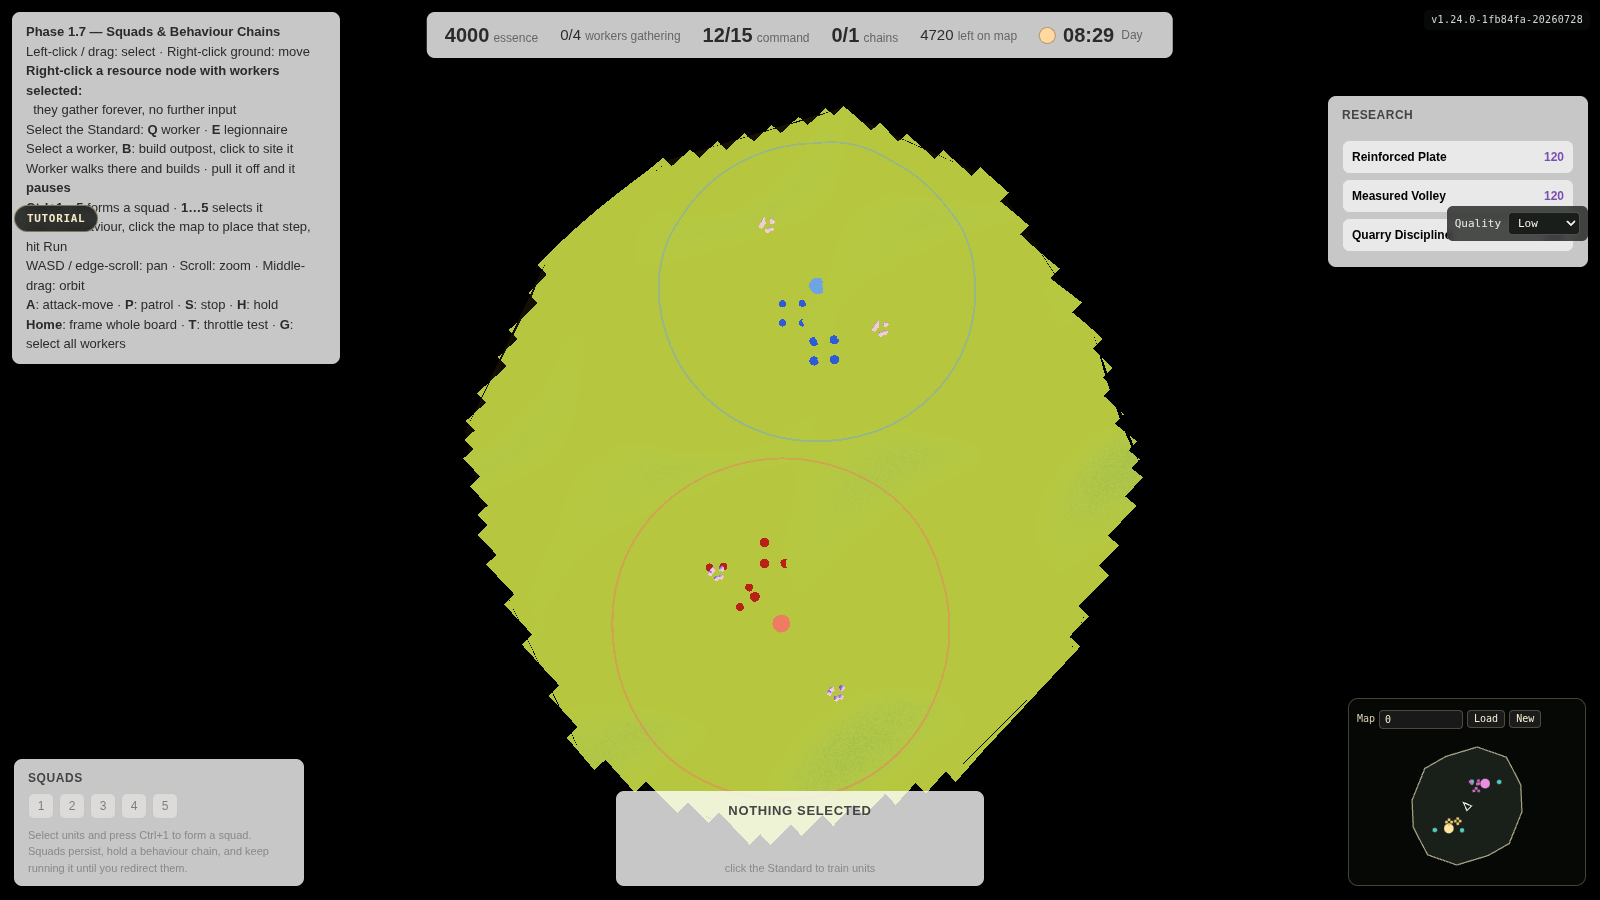
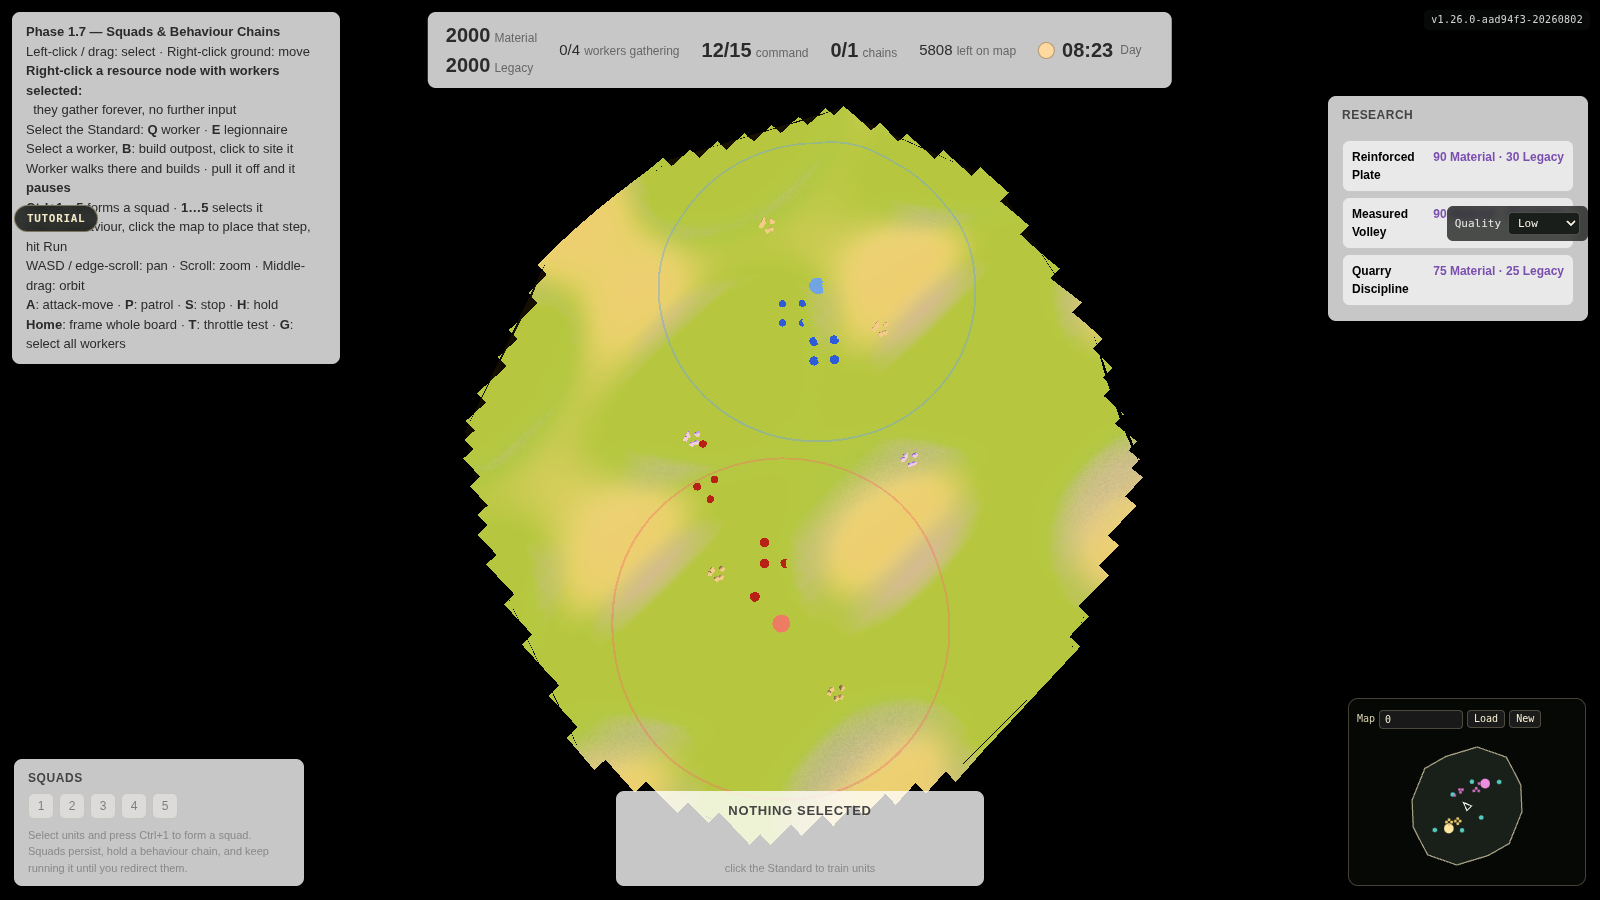
feat(render): ground that reads as ground (v1.27.0)
First item of the visual overhaul, and the one costing the most: the
terrain rendered as a single flat lime sheet, so the elevation that
combat already rewards with a damage bonus was invisible. D-035 makes
that a legibility failure rather than a cosmetic one.

Three hue paths now blend by world height, surface slope and
meadow-scale noise: valley grass, a new sun-dried grassHigh, and rock on
steep faces. Drying starts below the high-ground combat threshold, so a
contested rise is already changing colour as you climb it rather than
switching at the top. The noise term matters as much as the height one —
without it the blend reads as a contour map instead of terrain.

Compiled behind a TERRAIN_BLEND define rather than branched per
fragment, so units, buildings, scenery and nodes compile the exact
shader they compiled before and pay nothing for a feature only the
ground uses. That is D-006's budget talking.

Gallery re-shot against this build and the captions corrected: the old
text called the terrain "one flat green mass", which is no longer true,
and a screenshot page that describes a build it no longer matches is
worse than none. It now names what IS still wrong — ground *shape* is
soft, with no authored ramps, chokepoints or routes worth discovering,
because the generator makes smooth noise. That is D-033's work and the
real remaining blocker for arcade legibility.

diff --git a/src/render/painterly.ts b/src/render/painterly.ts
@@ -61,6 +61,16 @@ uniform float uCloudAmount, uCloudScale, uCloudSoft;
 uniform vec2  uCloudOffset;
 uniform float uOpacity;
 
+#ifdef TERRAIN_BLEND
+// A second and third hue path for ground that is high or steep. Guarded by a
+// define so every non-terrain material compiles the exact shader it always
+// did — units and buildings pay nothing for this.
+uniform vec3 uShadeHigh, uMidHigh, uLitHigh;
+uniform vec3 uShadeSteep, uMidSteep, uLitSteep;
+// x: height where drying starts · y: height where it completes · z: slope gain
+uniform vec3 uBlendParams;
+#endif
+
 varying vec3 vWPos;
 varying vec3 vWNormal;
 
@@ -111,7 +121,24 @@ void main() {
   float jit = (hash21(floor(vWPos.xz * 7.0)) - 0.5) * uJitter;
 
   float t = wrap * mix(0.34, 1.0, shadow);
-  vec3 col = ramp3(t, uShade, uMid, uLit, uSoft, jit);
+
+  vec3 pShade = uShade, pMid = uMid, pLit = uLit;
+#ifdef TERRAIN_BLEND
+  // Ground variation, all of it fragment maths (D-006):
+  //  - height dries the grass out, so elevation is readable as colour — the
+  //    combat high-ground bonus must be visible from the war table (D-035);
+  //  - large-scale noise wobbles that boundary into meadow patches, which is
+  //    what stops the field reading as one flat green sheet;
+  //  - slope pushes toward rock, accenting the flanks of every rise.
+  float meadow = vnoise(vWPos.xz * 0.045) * 0.65 + vnoise(vWPos.xz * 0.13 + 17.0) * 0.35;
+  float hgt = smoothstep(uBlendParams.x, uBlendParams.y, vWPos.y + (meadow - 0.5) * 0.9);
+  float steep = clamp((1.0 - N.y) * uBlendParams.z - 0.35, 0.0, 1.0);
+  pShade = mix(mix(pShade, uShadeHigh, hgt), uShadeSteep, steep);
+  pMid   = mix(mix(pMid,   uMidHigh,   hgt), uMidSteep,   steep);
+  pLit   = mix(mix(pLit,   uLitHigh,   hgt), uLitSteep,   steep);
+#endif
+
+  vec3 col = ramp3(t, pShade, pMid, pLit, uSoft, jit);
 
   float litAmt = smoothstep(0.34, 0.86, t);
   col *= mix(vec3(0.94), uSunColor * 1.28, litAmt * 0.62);
@@ -150,6 +177,22 @@ export interface PainterlyOptions {
   opacity?: number;
   transparent?: boolean;
   side?: THREE.Side;
+  /**
+   * Ground blending: a second hue path for high/dry ground and a third for
+   * steep faces, mixed by world height, slope and meadow noise. Terrain only —
+   * omitting it compiles the identical shader every other material uses.
+   */
+  terrain?: {
+    high: HuePath;
+    steep: HuePath;
+    /** World height where the grass starts drying out. */
+    heightLo: number;
+    /** ...and where it is fully dry. */
+    heightHi: number;
+    /** Gain on (1 − N.y). This map's slopes are gentle (N.y ≈ 0.93–1.0), so
+     *  legible rock accents need a large multiplier. */
+    slopeGain: number;
+  };
 }
 
 /**
@@ -182,6 +225,7 @@ export function createPainterlyMaterial(
     fog: true,
     transparent: opts.transparent ?? false,
     side: opts.side ?? THREE.FrontSide,
+    defines: opts.terrain ? { TERRAIN_BLEND: '' } : {},
     uniforms: THREE.UniformsUtils.merge([
       THREE.UniformsLib['lights'],
       THREE.UniformsLib['fog'],
@@ -202,6 +246,18 @@ export function createPainterlyMaterial(
         uCloudScale: { value: 0.012 },
         uCloudSoft: { value: 0.14 },
         uCloudOffset: { value: new THREE.Vector2() },
+        ...(opts.terrain ? {
+          uShadeHigh: { value: opts.terrain.high.shade.clone() },
+          uMidHigh: { value: opts.terrain.high.mid.clone() },
+          uLitHigh: { value: opts.terrain.high.lit.clone() },
+          uShadeSteep: { value: opts.terrain.steep.shade.clone() },
+          uMidSteep: { value: opts.terrain.steep.mid.clone() },
+          uLitSteep: { value: opts.terrain.steep.lit.clone() },
+          uBlendParams: {
+            value: new THREE.Vector3(
+              opts.terrain.heightLo, opts.terrain.heightHi, opts.terrain.slopeGain),
+          },
+        } : {}),
       },
     ]),
   });

diff --git a/tests/render/painterlyTerrain.test.ts b/tests/render/painterlyTerrain.test.ts
@@ -1,0 +1,35 @@
+import { describe, expect, it } from 'vitest';
+import { createPainterlyMaterial } from '../../src/render/painterly';
+import { PALETTE } from '../../src/render/palette';
+
+// The blend is guarded by a define so that units and buildings keep compiling
+// the exact shader they always did. These tests pin that guard.
+describe('painterly terrain blend (D-035 ground legibility)', () => {
+  it('a plain material compiles without the terrain define or uniforms', () => {
+    const mat = createPainterlyMaterial(PALETTE.grass);
+    expect(mat.defines).not.toHaveProperty('TERRAIN_BLEND');
+    expect(mat.uniforms).not.toHaveProperty('uShadeHigh');
+  });
+
+  it('a terrain material declares the define and all blend uniforms', () => {
+    const mat = createPainterlyMaterial(PALETTE.grass, {
+      terrain: {
+        high: PALETTE.grassHigh, steep: PALETTE.rock,
+        heightLo: 0.25, heightHi: 1.45, slopeGain: 22,
+      },
+    });
+    expect(mat.defines).toHaveProperty('TERRAIN_BLEND');
+    for (const u of ['uShadeHigh', 'uMidHigh', 'uLitHigh', 'uShadeSteep', 'uMidSteep', 'uLitSteep', 'uBlendParams']) {
+      expect(mat.uniforms).toHaveProperty(u);
+    }
+    const params = mat.uniforms['uBlendParams']!.value as { x: number; y: number; z: number };
+    expect(params.x).toBeLessThan(params.y);
+  });
+
+  it('the high path is a distinct hue family from the valley grass', () => {
+    // If someone later points both at the same path, the blend silently does
+    // nothing and elevation legibility is lost while every test still passes —
+    // except this one.
+    expect(PALETTE.grassHigh.mid.getHex()).not.toBe(PALETTE.grass.mid.getHex());
+  });
+});

diff --git a/src/render/palette.ts b/src/render/palette.ts
@@ -21,6 +21,13 @@ const c = (hex: number) => new THREE.Color(hex);
 /** Cool violet-green shade -> saturated mid -> warm sunlit tip. */
 export const PALETTE = {
   grass: { shade: c(0x3f5d4a), mid: c(0x5f9147), lit: c(0xa8c85c) },
+  /**
+   * Sun-dried grass for high ground. The point is legibility, not decoration:
+   * combat gives high ground a real damage bonus, so elevation has to be
+   * readable from colour at war-table distance (D-035). Warmer and paler than
+   * the valley grass, still inside the same painterly family.
+   */
+  grassHigh: { shade: c(0x625c33), mid: c(0x99a04f), lit: c(0xdcd48b) },
   rock: { shade: c(0x4d4f52), mid: c(0x83837c), lit: c(0xc3bda9) },
   bark: { shade: c(0x3d2e24), mid: c(0x6b4a2f), lit: c(0x9c7746) },
   leaf: { shade: c(0x2f5535), mid: c(0x4f8f3d), lit: c(0x9ccc5a) },

diff --git a/src/render/terrainMesh.ts b/src/render/terrainMesh.ts
@@ -90,6 +90,17 @@ export function buildTerrainMesh(scene: THREE.Scene, q: QualitySettings, mapSeed
     soft: 0.2,
     rim: 0.15,
     jitter: 0.07,
+    // Ground variation (D-035): drying starts below HIGH_GROUND_THRESHOLD so a
+    // contested rise is already changing colour as you climb it, and is fully
+    // dry well before the peaks. Slope gain is tuned to this map's gentle
+    // normals — see the option's doc comment.
+    terrain: {
+      high: PALETTE.grassHigh,
+      steep: PALETTE.rock,
+      heightLo: 0.25,
+      heightHi: 1.45,
+      slopeGain: 22,
+    },
   }));
   mesh.receiveShadow = true;
   mesh.name = 'polygon-battlefield';

diff --git a/docs/SCREENSHOTS.md b/docs/SCREENSHOTS.md
@@ -6,7 +6,7 @@ worth being blunt: *the game does not look good yet.* The concept art in
 [`CONCEPT_ART.md`](CONCEPT_ART.md) is the target; this page is the honest
 distance still to travel.
 
-Captured at v1.24.0 on 1600×900.
+Captured at v1.27.0 on 1600×900.
 
 > **Caveat on fidelity.** These were taken in a headless container with no GPU,
 > so Chromium fell back to software rendering (SwiftShader) and the quality
@@ -27,44 +27,61 @@ console. At this distance the level-of-detail system deliberately swaps unit
 meshes for strategic markers (D-014) — the dots are the LOD working, not units
 failing to render.
 
-**What this shot says about the work left:** terrain reads as one flat green
-mass. There is no height legibility, no material variation, and nothing that
-tells you where high ground or a chokepoint is. D-035 says maps must be
-*arcade-legible*; this is the evidence that generation, not shading, is the
-blocker.
+**Ground now reads as ground.** The pale ochre patches are high ground drying
+out, mixed by world height, slope and meadow noise — so the elevation that
+combat already rewards is finally visible from the war table (D-035). The
+earlier capture of this same view was one flat lime sheet.
+
+**What this shot still says about the work left:** the *shape* of the terrain is
+soft. Colour tells you roughly where the rises are, but there are no distinct
+ramps, no chokepoints, and no route worth discovering — because the generator
+does not yet author any. That is D-033's job and remains the real blocker for
+arcade legibility; ground colour was only the half of it that shading could
+fix.
 
 ## Contact
 
 ![Two armies meeting](assets/screenshots/04-battle.png)
 
-48 units spawned through the dev console and left to fight. Command shows
-`60/15` — over cap, because cheats do not respect supply — and the research
-panel has lit up now that 4000 is banked. The two forces have met at the
-midpoint between the control rings.
+Outriders (blue) against a Legionnaire line (red), 18 a side, spawned through
+the dev console and left to fight. Command shows `46/15` — over cap, because
+cheats do not respect supply. The research panel is lit now that both currencies
+are banked, and each upgrade shows its split cost: *90 Material · 30 Legacy*.
+
+The Outrider's whole case is visible in the shape of the engagement: it is the
+fastest unit on the roster, so it arrives first and curls around rather than
+meeting the line head-on, which is exactly where its doubled flank bonus pays
+and its zero defense does not.
 
 ## Research
 
 ![Research panel](assets/screenshots/02-research-panel.png)
 
 The tech track (D-028), reachable in-game. Rows grey out when unaffordable and
-light the moment they are payable. Doctrine pairs state explicitly that taking
-one does not forfeit the other — that reassurance is the mechanic.
+light the moment they are payable. Costs are rendered from the resource registry
+rather than hardcoded, so each upgrade shows its real split — Material for the
+labour, Legacy for the understanding (D-031). Doctrine pairs state explicitly
+that taking one does not forfeit the other; that reassurance is the mechanic.
 
 ## Developer console
 
 ![Dev console](assets/screenshots/03-dev-console.png)
 
-Backtick opens it. Every shot on this page was staged through it. Cheats are
-recorded into the replay stream as ordinary commands and gated on hashed
-`devMode`, so a session staged this way still replays exactly — and a clean
-competitive match can prove no cheat was ever enabled.
+Backtick opens it. Every shot on this page was staged through it — `/dev on`,
+`/reveal on`, `/add 2000`, `/spawn`. Cheats are recorded into the replay stream
+as ordinary commands and gated on hashed `devMode`, so a session staged this way
+still replays exactly, and a clean competitive match can prove no cheat was ever
+enabled. `/add` reports both currencies because it walks the resource registry;
+it does not know their names.
 
 ---
 
 ## Where this is going
 
 The gap between these captures and the concept art is the subject of the
-**visual overhaul** queued in [`TODO.md`](TODO.md). In short: the painterly
-shading model is in place and correct, but almost nothing else that makes a
-scene read well has been built — silhouette variety, ground material variation,
-readable elevation, contact shadows, and any sense of depth in the void.
+**visual overhaul** queued in [`TODO.md`](TODO.md). Ground material variation
+and readable elevation are now done — the first item on that list. What remains,
+in order of return: **contact shadows** where geometry meets ground (nothing
+currently sits *in* the world, it all floats on it), **silhouette variety**
+beyond near-cylinders now that the camera can drop to miniature scale, and
+**depth in the void** so the table feels suspended in something.

diff --git a/docs/PROGRESS.md b/docs/PROGRESS.md
@@ -1,7 +1,7 @@
 # Live Development Progress
 
 **Last updated:** 2026-07-27
-**Current overall completion:** **91%** of the active 11-phase development plan.
+**Current overall completion:** **92%** of the active 11-phase development plan.
 
 This file is the live scoreboard. Update it whenever a benchmark lands, scope is
 added, or a task changes state. `CURRENT_STATE.md` explains the project in detail;
@@ -17,15 +17,17 @@ this file answers "where are we right now?" at a glance.
 | 3. War-table camera | 15% | In progress | 97% | Whole-board framing plus adaptive near clipping across miniature and cosmological zoom |
 | 4. Selection and command reliability | 10% | In progress | 96% | Direct attack-move, patrol, stop, and hold-position orders are replay-safe, polygon-safe, and exposed through hotkeys and selection cards |
 | 5. Debug overlay and observability | 10% | Complete | 100% | In-game dev console with replay-recorded cheats, host-only pacing controls, and hashed dev-mode gating |
-| 6. Visual asset foundation | 15% | In progress | 42% | Painterly materials now cover terrain, units, buildings, scenery, and nodes; concept-art gallery and war-table hero published |
+| 6. Visual asset foundation | 15% | In progress | 52% | Height/slope terrain blending makes elevation readable at war-table distance; screenshot gallery re-shot against the current build |
 | 7. LOD and performance architecture | 10% | In progress | 82% | Screen-consistent strategic markers, distance LOD, scenery culling, and persistent in-game quality selection |
 | 8. World presentation | 10% | In progress | 95% | Fog of war rebuilt as a terrain-following sampled coverage texture: soft cell boundaries, soft polygon rim, one draw call |
 | 9. Core gameplay expansion | 5% | In progress | 96% | Outrider flanker/scout live: declared flank-expertise trait, data-driven vision and hotkeys; 4 of 7 Cohort ground units |
 | 10. Replay/save validation | 5% | In progress | 100% | Live player-command capture, AI-aware playback, endpoint hashes, export/verify/import, and director policy foundation |
 
-Weighted overall: approximately **91%**.
+Weighted overall: approximately **92%**.
 
 ## Most recent completed benchmarks
+
+- [x] Terrain ground-material blending by height, slope and meadow noise, so the elevation that combat rewards is legible from the war table; compiled behind a define so no other material pays for it.
 
 - [x] Outrider flanker/scout with a declared `flankExpertise` trait that scales only the positional bonus, vision radii and training hotkeys moved into the data tables.
 
@@ -113,7 +115,7 @@ browser-first RTS engine and creator ecosystem. The platform track includes
 content-defined factions, units, resources, lore, balance, scenarios, custom
 landing pages, validation, templates, and eventual creator tools.
 
-This does **not** change the current 91% game-production score. It is tracked as a
+This does **not** change the current 92% game-production score. It is tracked as a
 long-term platform track whose architectural rules apply now, while extraction and
 creator tooling follow only after Greenmantle proves the systems in real play.
 See `ENGINE_VISION.md`.

diff --git a/docs/CURRENT_STATE.md b/docs/CURRENT_STATE.md
@@ -6,7 +6,7 @@
 
 ## 🔑 SESSION HANDOFF — read before starting work
 
-**v1.26.0 · 416 tests · 72 modules documented · `npm run verify` green · nothing unpushed.**
+**v1.27.0 · 419 tests · 72 modules documented · `npm run verify` green · nothing unpushed.**
 
 ### What this session did
 
@@ -100,7 +100,27 @@ Doctrine that cannot fail a build is a suggestion, and it decays silently.
 
 ---
 
-## ⚡ Latest — the Outrider makes flanking matter (v1.26.0)
+## ⚡ Latest — ground that reads as ground (v1.27.0)
+
+**419 tests · full gate green.**
+
+- **Terrain blends three hue paths** by world height, surface slope and
+  meadow-scale noise: valley grass, sun-dried `grassHigh`, and rock on steep
+  faces. Drying begins below the high-ground combat threshold, so a rise is
+  already changing colour as you climb it. This is the first item of the visual
+  overhaul and the one that was costing most — elevation carries a real damage
+  bonus and was previously invisible (D-035).
+- **Behind a `TERRAIN_BLEND` define**, so every other painterly material
+  compiles unchanged and pays nothing (D-006).
+- **Gallery re-shot** and captions corrected — the old text called the terrain
+  "one flat green mass", which is no longer true. It now names what is still
+  wrong: ground *shape* is soft, with no authored ramps or chokepoints.
+
+**The remaining D-035 blocker is generation, not shading.** Colour tells you
+where the rises are; nothing tells you where the *approaches* are, because the
+generator makes smooth noise. That is D-033.
+
+## ⚡ Previous — the Outrider makes flanking matter (v1.26.0)
 
 **416 tests · full gate green.**
 

diff --git a/docs/CHANGELOG.md b/docs/CHANGELOG.md
@@ -1,3 +1,25 @@
+## v1.27.0 — Ground that reads as ground (92%)
+**Date:** 2026-08-02
+
+First item of the visual overhaul, and the one that was costing the most:
+terrain rendered as a single flat green sheet, so the elevation combat
+already rewards was invisible.
+
+- **Height, slope and meadow-noise blending** across three hue paths: valley
+  grass, a new sun-dried `grassHigh` for high ground, and rock on steep faces.
+  Drying starts *below* the high-ground combat threshold, so a contested rise is
+  already changing colour as you climb it. Large-scale noise wobbles the
+  boundary into meadow patches, which is what stops it reading as a contour map.
+- **Guarded behind a `TERRAIN_BLEND` define.** Units, buildings, scenery and
+  nodes compile the exact shader they compiled before and pay nothing for a
+  feature only the ground uses — D-006's budget is why this is a define rather
+  than a branch every fragment evaluates.
+- **Screenshot gallery re-shot** at v1.27.0 and its captions corrected. The
+  previous text called the terrain "one flat green mass"; that is no longer
+  true and the page now says what *is* still wrong instead — the ground's
+  *shape* is soft, with no authored ramps or chokepoints, which is D-033's
+  generator work and the real remaining blocker for D-035.
+
 ## v1.26.0 — Outrider: flanking finally has a customer (91%)
 **Date:** 2026-07-27
 

diff --git a/docs/TODO.md b/docs/TODO.md
@@ -39,10 +39,15 @@ captures in `SCREENSHOTS.md` are the honest baseline — the painterly shading
 model is correct, but nearly everything else that makes a scene read well is
 missing. Ordered by visual return per unit of effort:
 
-- [ ] **Ground material variation.** Terrain is one flat green mass. Needs slope
-      and height driven blending (grass / dry earth / rock / moss) so elevation
-      is readable at a glance, which D-035 makes a *legibility* requirement and
-      not just decoration.
+- [x] **Ground material variation** — v1.27.0. Height, slope and meadow noise
+      blend a dry high-ground path and a rock path over the valley grass, so the
+      elevation combat already rewards is visible from the war table. Fragment
+      maths behind a `TERRAIN_BLEND` define, so non-terrain materials compile the
+      shader they always did and pay nothing (D-006).
+- [ ] **Authored ramps and chokepoints.** Ground *colour* now reads; ground
+      *shape* does not. The generator produces smooth noise, so there are no
+      distinct approaches to high ground and nothing worth discovering. This is
+      D-033's generator work and is the real remaining blocker for D-035.
 - [ ] **Contact shadows / ambient occlusion where geometry meets ground.**
       Nothing currently sits *in* the world; everything floats on it. Cheapest
       single change with the largest payoff.
